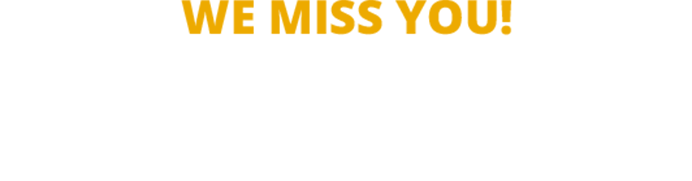
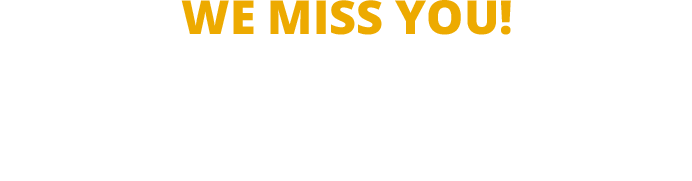
:memo: Update description image

Changed region(s): [[0.2428, 0.0, 0.7587, 0.1934]]

diff --git a/dist/we-miss-you.html b/dist/we-miss-you.html
@@ -138,7 +138,7 @@ a[href^=tel],
     <table border="0" cellpadding="0" cellspacing="0" align="center"  style="table-layout: fixed; width: 600px; border-collapse: collapse !important; overflow: hidden; max-width: 600px !important; background-color: #06357a;" width="600" bgcolor="#06357a">
       <tr>
         <td  style="text-align: left; padding: 42px 35px 35px 33px;" align="left">
-          <img alt="[placeholder]" src="https://justatic.com/v/1/emails/images/lawyer-directory/2018/02/we-miss-you-desc-01.png" tabindex="0" border="0"  style="display: block; width: 532.307692308px; height: 139.230769231px; margin: 0 auto; Margin: 0 auto;" width="532.307692308" height="139.230769231">
+          <img alt="[placeholder]" src="https://justatic.com/v/2/emails/images/lawyer-directory/2018/02/we-miss-you-desc-01.png" tabindex="0" border="0"  style="display: block; width: 532.307692308px; height: 139.230769231px; margin: 0 auto; Margin: 0 auto;" width="532.307692308" height="139.230769231">
         </td>
       </tr>
       <tr>
@@ -147,7 +147,7 @@ a[href^=tel],
             <table border="0" cellspacing="0" cellpadding="0" align="center"  style="table-layout: fixed; border-collapse: collapse; width: 600px;" width="600">
               <tr>
                 <td  style="padding: 0 30px 40px 28px; text-align: center; width: 100%;" width="100%" align="center">
-                  <img alt="[placeholder]" src="https://justatic.com/v/1/emails/images/lawyer-directory/2018/02/we-miss-you-main-image-01.png" tabindex="0" border="0"  style="display: block; width: 542.307692308px; height: 240px; margin: 0 auto; Margin: 0 auto;" width="542.307692308" height="240">
+                  <img alt="[placeholder]" src="https://justatic.com/v/2/emails/images/lawyer-directory/2018/02/we-miss-you-main-image-01.png" tabindex="0" border="0"  style="display: block; width: 542.307692308px; height: 240px; margin: 0 auto; Margin: 0 auto;" width="542.307692308" height="240">
                 </td>
               </tr>
             </table>
@@ -176,7 +176,7 @@ a[href^=tel],
             <tr >
               <td style="text-align: left; padding-bottom: 22px;" align="left">
                 <p style="color: #000000; text-align: left; line-height: 18px; margin: 0; font: 16px/1.5 Arial, sans-serif;">
-                  <img alt="[placeholder]" src="https://justatic.com/v/1/emails/images/lawyer-directory/2018/02/we-miss-you-bullet-01.png" tabindex="0" border="0"  style="display: inline-block; margin-top: 5px; margin-right: 5px; vertical-align: top;">
+                  <img alt="[placeholder]" src="https://justatic.com/v/2/emails/images/lawyer-directory/2018/02/we-miss-you-bullet-01.png" tabindex="0" border="0"  style="display: inline-block; margin-top: 5px; margin-right: 5px; vertical-align: top;">
                   <span  style="display: inline-block; width: 514px;">
                     <strong style="color: #000000;">Premium Placements</strong> - enhance your visibility for your practice area(s) across an entire metro area on the Justia & LII lawyer directories.
                   </span>
@@ -186,7 +186,7 @@ a[href^=tel],
             <tr >
               <td style="text-align: left; padding-bottom: 22px;" align="left">
                 <p style="color: #000000; text-align: left; line-height: 18px; margin: 0; font: 16px/1.5 Arial, sans-serif;">
-                  <img alt="[placeholder]" src="https://justatic.com/v/1/emails/images/lawyer-directory/2018/02/we-miss-you-bullet-01.png" tabindex="0" border="0"  style="display: inline-block; margin-top: 5px; margin-right: 5px; vertical-align: top;">
+                  <img alt="[placeholder]" src="https://justatic.com/v/2/emails/images/lawyer-directory/2018/02/we-miss-you-bullet-01.png" tabindex="0" border="0"  style="display: inline-block; margin-top: 5px; margin-right: 5px; vertical-align: top;">
                   <span  style="display: inline-block; width: 514px;">
                     <strong style="color: #000000;">Premium Profile -</strong> features a contact form to increase client interaction. Competitor ads are also removed from the profile.
                   </span>
@@ -196,7 +196,7 @@ a[href^=tel],
             <tr >
               <td style="text-align: left; padding-bottom: 0;" align="left">
                 <p style="color: #000000; text-align: left; line-height: 18px; margin: 0; font: 16px/1.5 Arial, sans-serif;">
-                  <img alt="[placeholder]" src="https://justatic.com/v/1/emails/images/lawyer-directory/2018/02/we-miss-you-bullet-01.png" tabindex="0" border="0"  style="display: inline-block; margin-top: 5px; margin-right: 5px; vertical-align: top;">
+                  <img alt="[placeholder]" src="https://justatic.com/v/2/emails/images/lawyer-directory/2018/02/we-miss-you-bullet-01.png" tabindex="0" border="0"  style="display: inline-block; margin-top: 5px; margin-right: 5px; vertical-align: top;">
                   <span  style="display: inline-block; width: 514px;">
                     <strong style="color: #000000;">Traffic Statistics -</strong> view traffic stats of your visibility on the Justia & LII lawyer directories and legal portals.
                   </span>
